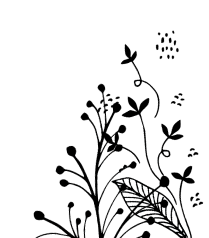
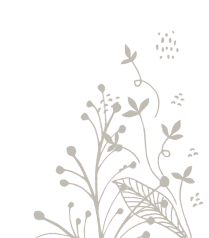
Change floral.png hue

diff --git a/src/tests/UI.test.ts b/src/tests/UI.test.ts
@@ -162,7 +162,7 @@ async function gotoKeywordsPage(): Promise<void> {
   const keywordsBtn = await page.$('#keywords-btn');
   expect(keywordsBtn, 'Keywords button with id "keywords-btn" not found').not.toBeNull();
   await keywordsBtn!.click();
-  expect(page.url()).toBe(`chrome-extension://${extensionId}/src/block-keywords.html`);
+  expect(page.url()).toBe(mainUrl);
 }
 
 async function addKeyword(newKeyword: string): Promise<response> {
